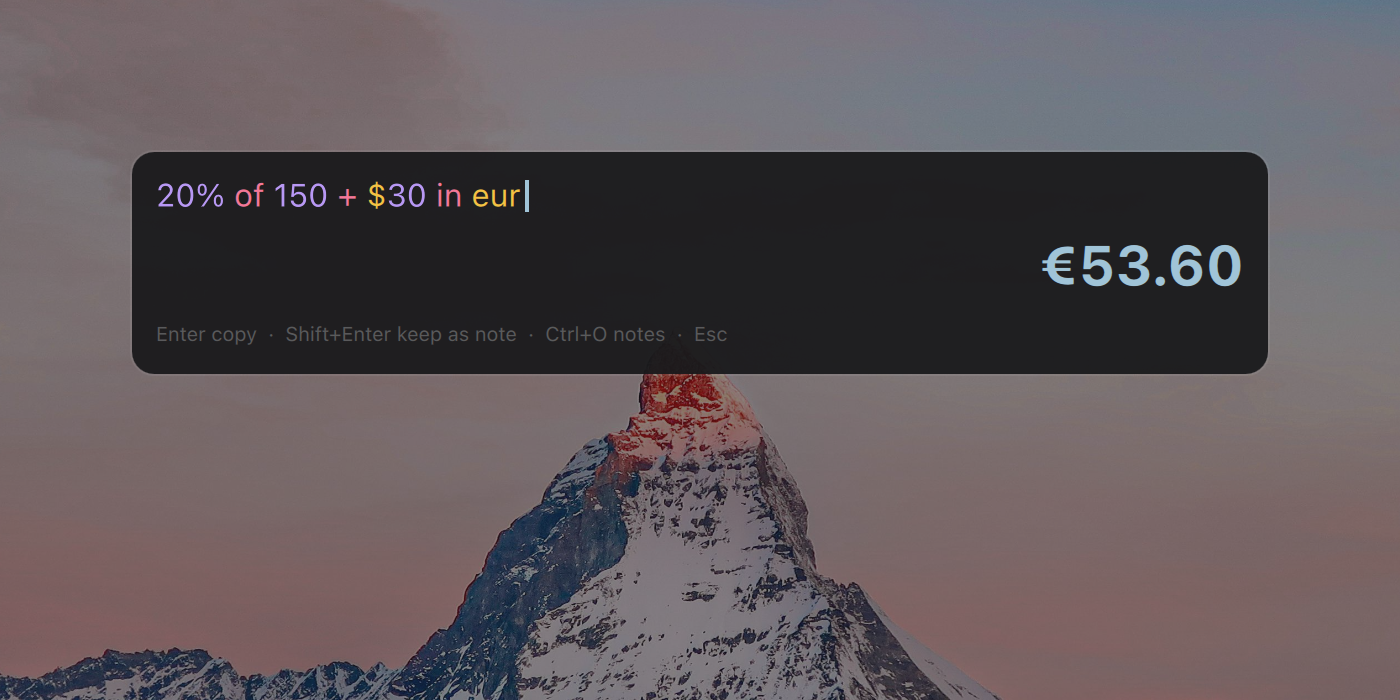
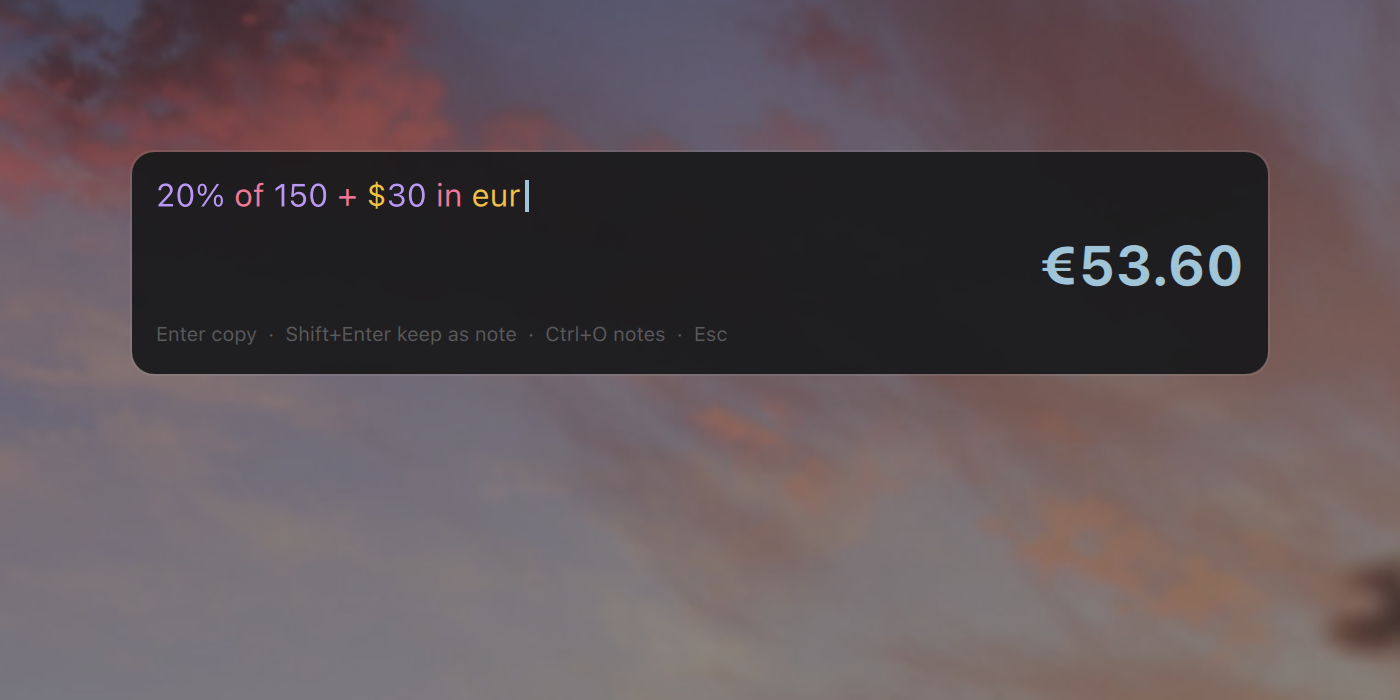
feat: highlight the notes rows too; screenshots with highlighting
The shown notes rows are tokenized in the same batch as the typed line,
comments stay plain.

diff --git a/NumrModel.js b/NumrModel.js
@@ -14,19 +14,35 @@ function request(method, params, id) {
 // document would in the numr TUI.
 // ponytail: the whole notes file is replayed on every keystroke; window it to
 // the last few thousand lines if someone keeps a novel in default.numr.
-// The tokenize call comes last so the notes' variables are already bound when
-// the typed line is tokenized. numr-cli before 0.9.2 answers it with "Method
-// not found", which the overlay treats as "no highlighting".
-function buildRequest(id, notesLines, expr) {
-  return JSON.stringify([
+// The tokenize calls come after eval_lines so the notes' variables are already
+// bound: one for the typed line, one per shown notes row. numr-cli before
+// 0.9.2 answers them with "Method not found", which means "no highlighting".
+function buildRequest(id, notesLines, expr, notesLimit) {
+  var calls = [
     request("clear"),
     request("eval_lines", { lines: notesLines.concat([expr]) }, id),
     request("tokenize", { expr: expr }, tokensId(id))
-  ]) + "\n"
+  ]
+  var shown = notesRowIndexes(notesLines, notesLimit || 0)
+  for (var i = 0; i < shown.length; i++) {
+    calls.push(request("tokenize", { expr: notesLines[shown[i]] }, tokensId(id, shown[i])))
+  }
+  return JSON.stringify(calls) + "\n"
 }
 
-function tokensId(id) {
-  return "tokens:" + id
+// "tokens:<request id>" for the typed line, "tokens:<request id>:<line>" for a
+// notes row.
+function tokensId(id, line) {
+  return "tokens:" + id + (line === undefined ? "" : ":" + line)
+}
+
+// Indexes of the last `limit` non-blank lines, in document order.
+function notesRowIndexes(lines, limit) {
+  var indexes = []
+  for (var i = lines.length - 1; i >= 0 && indexes.length < limit; i--) {
+    if (lines[i].trim()) indexes.unshift(i)
+  }
+  return indexes
 }
 
 function ratesRequest() {
@@ -89,13 +105,23 @@ function isComment(line) {
 
 // The notes peek: the last `limit` non-blank lines paired with their values.
 // Errors show no value; a prose note is a note, not a mistake.
-function notesRows(lines, results, limit) {
+// `tokens` maps a line index to its syntax tokens; rows with tokens carry
+// `markup` for styled rendering, comments stay plain.
+function notesRows(lines, results, limit, tokens, lightCard) {
+  var indexes = notesRowIndexes(lines, limit)
   var rows = []
-  for (var i = lines.length - 1; i >= 0 && rows.length < limit; i--) {
-    if (!lines[i].trim()) continue
+  for (var n = 0; n < indexes.length; n++) {
+    var i = indexes[n]
     var value = results[i]
     var shown = value && value.type !== "error" && value.type !== "empty" ? value.display : ""
-    rows.unshift({ text: lines[i], result: shown, comment: isComment(lines[i]) })
+    var comment = isComment(lines[i])
+    var list = tokens && tokens[i]
+    rows.push({
+      text: lines[i],
+      result: shown,
+      comment: comment,
+      markup: !comment && list && list.length ? highlightMarkup(list, lightCard) : ""
+    })
   }
   return rows
 }

diff --git a/Overlay.qml b/Overlay.qml
@@ -101,7 +101,7 @@ Item {
   function sendEval() {
     root.requestId += 1
     root.inflight = { id: root.requestId, lines: root.notesLines, expr: root.expr }
-    root.send(Model.buildRequest(root.requestId, root.notesLines, root.expr))
+    root.send(Model.buildRequest(root.requestId, root.notesLines, root.expr, root.notesLimit))
   }
 
   function send(frame) {
@@ -118,27 +118,30 @@ Item {
     server.running = true
   }
 
+  // One frame answers the whole batch: the evaluation, the typed line's
+  // tokens, and the tokens of every notes row that is shown.
   function handleResponse(data) {
     var sent = root.inflight
     if (!sent) return
     var replies = Model.parseResponses(data)
+    var evaluation = null
+    var noteTokens = {}
+    var linePrefix = Model.tokensId(sent.id) + ":"
     for (var i = 0; i < replies.length; i++) {
       var reply = replies[i]
-      if (reply.id === sent.id) root.applyResult(sent, reply)
-      else if (reply.id === Model.tokensId(sent.id)) {
-        root.tokens = { expr: sent.expr, list: !reply.error && Array.isArray(reply.result) ? reply.result : [] }
-      }
+      var list = !reply.error && Array.isArray(reply.result) ? reply.result : []
+      if (reply.id === sent.id) evaluation = reply
+      else if (reply.id === Model.tokensId(sent.id)) root.tokens = { expr: sent.expr, list: list }
+      else if (String(reply.id).indexOf(linePrefix) === 0) noteTokens[Number(String(reply.id).slice(linePrefix.length))] = list
     }
-  }
-
-  function applyResult(sent, reply) {
-    if (reply.error) {
-      root.result = { type: "error", display: reply.error, message: reply.error }
+    if (!evaluation) return
+    if (evaluation.error) {
+      root.result = { type: "error", display: evaluation.error, message: evaluation.error }
       return
     }
-    var values = Array.isArray(reply.result) ? reply.result : []
+    var values = Array.isArray(evaluation.result) ? evaluation.result : []
     var count = sent.lines.length
-    root.notesRows = Model.notesRows(sent.lines, values.slice(0, count), root.notesLimit)
+    root.notesRows = Model.notesRows(sent.lines, values.slice(0, count), root.notesLimit, noteTokens, root.lightCard)
     root.result = sent.expr.trim() ? (values[count] || null) : null
   }
 
@@ -514,8 +517,8 @@ Item {
 
               Text {
                 id: noteText
-                textFormat: Text.PlainText
-                text: noteRow.modelData.text
+                textFormat: noteRow.modelData.markup ? Text.StyledText : Text.PlainText
+                text: noteRow.modelData.markup || noteRow.modelData.text
                 anchors.left: parent.left
                 anchors.right: noteValue.left
                 anchors.rightMargin: Style.spacing.md
